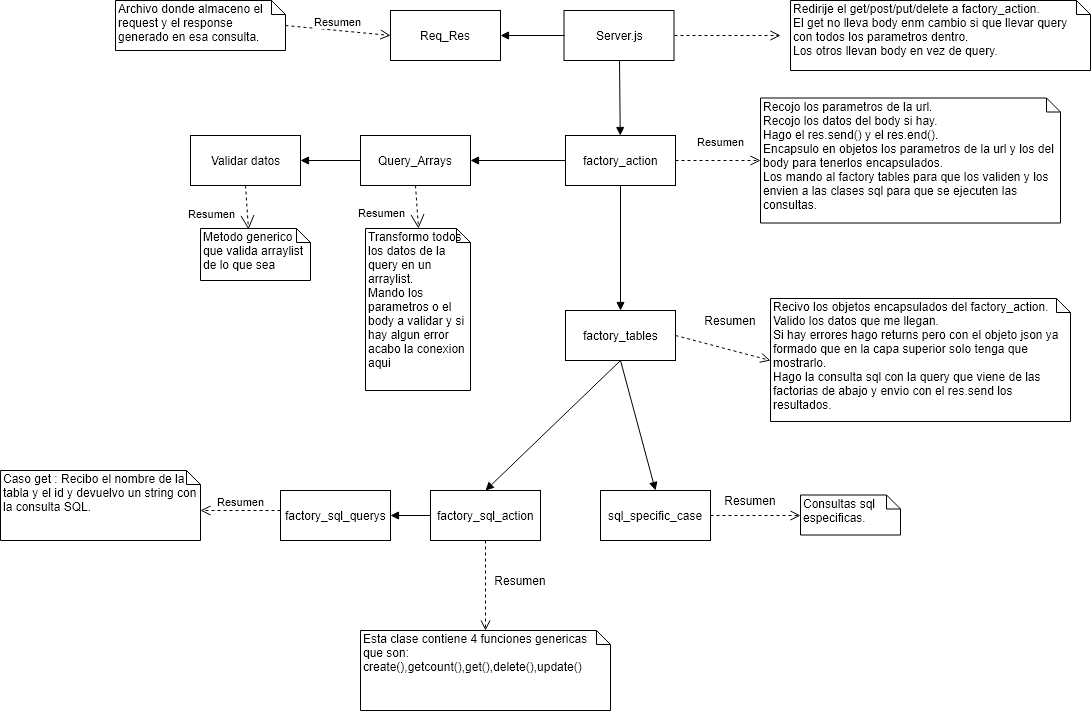
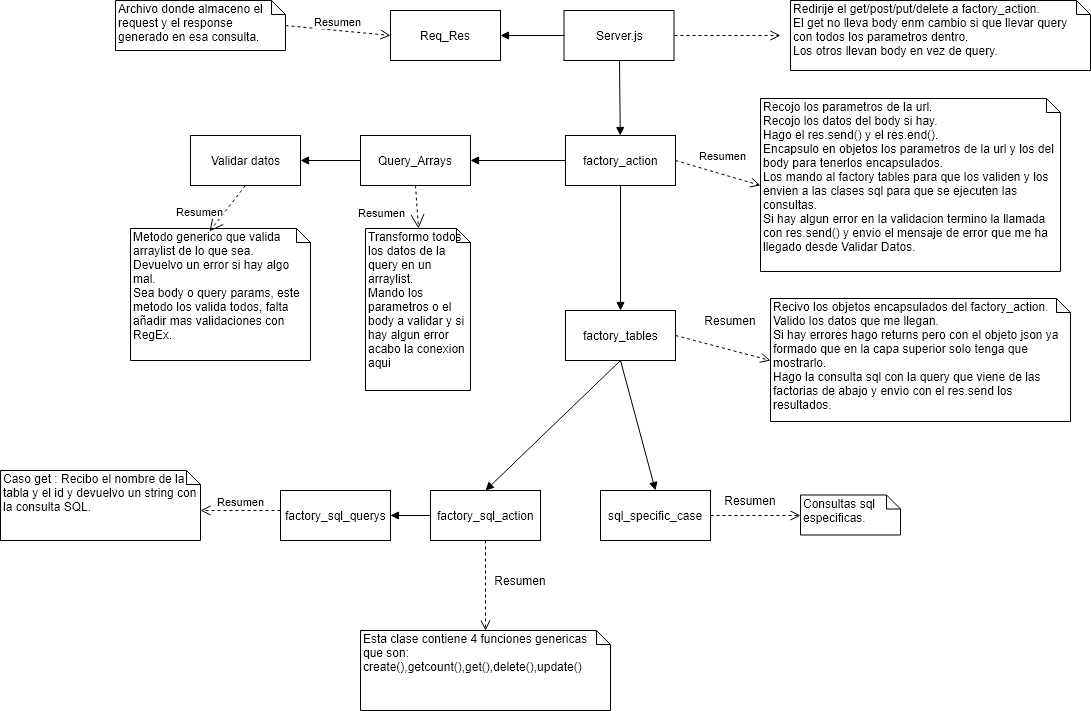
Actualizado diagramas.

Changed region(s): [[0.1247, 0.2785, 0.2805, 0.4951], [0.6856, 0.2785, 0.9661, 0.3713], [0.6233, 0.1857, 0.6856, 0.2475]]

diff --git a/server_action/Factory_Action.js b/server_action/Factory_Action.js
@@ -28,8 +28,25 @@ module.exports.factory_action = function (query, body) {
             }
             break;
         case actions.delete:
+            error = query_array(query);
+            if(error.msg === null){
+                factory_tables(query.actions, query.table, query)
+            }else{
+                enviarError(error);
+            }
             break;
         case actions.insert:
+            error = query_array(query);
+            if (error.msg === null) {
+                error = query_array(body);
+                if (error.msg === null) {
+                    factory_tables(query.actions, query.table, body);
+                } else {
+                    enviarError(error);
+                }
+            } else {
+                enviarError(error);
+            }
             break;
         default:
             getRes().send({ status: 500, msg: `No existe la accion: ${query.actions} ` });
